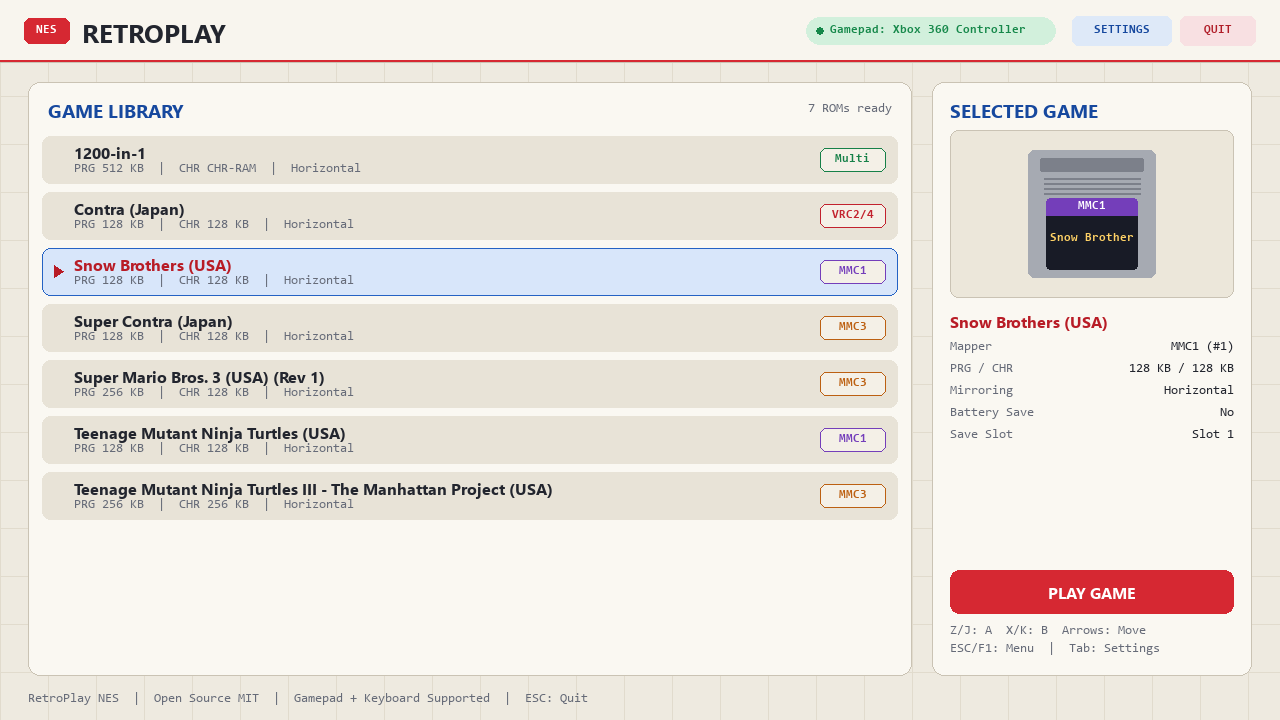
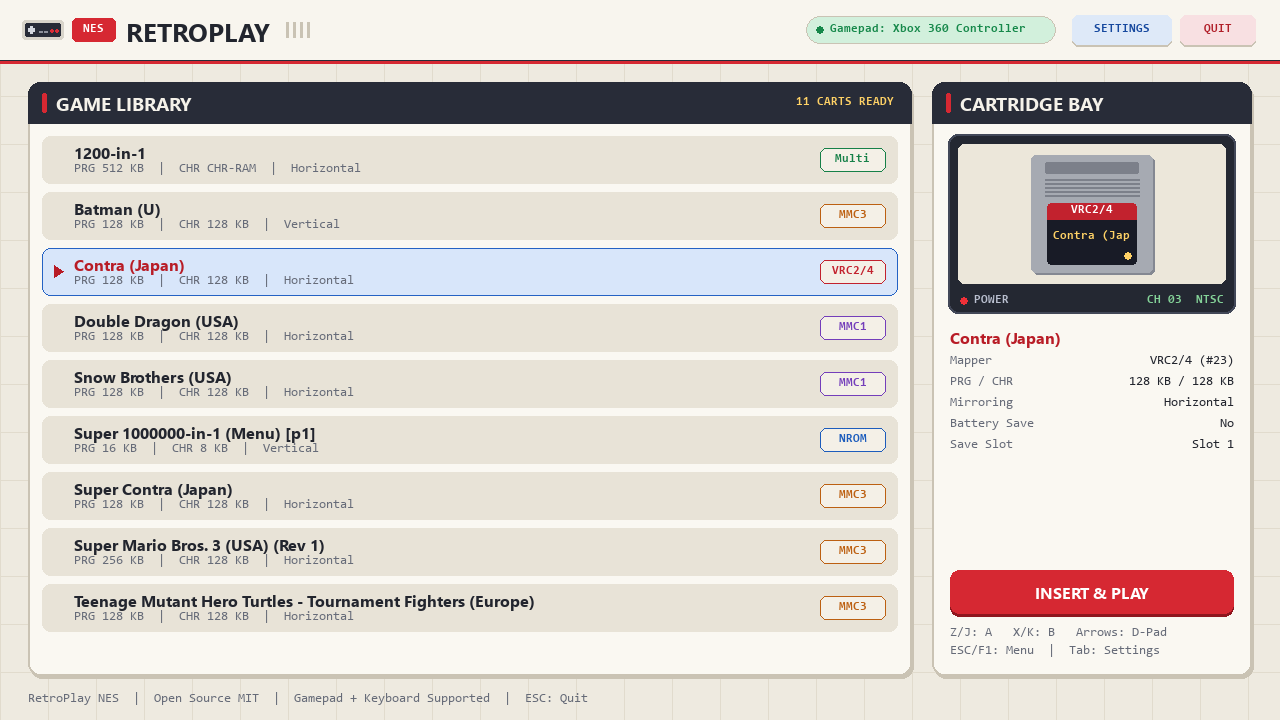
Add nostalgic 1985 NES console hardware styling to main UI

diff --git a/nes_core/ui.py b/nes_core/ui.py
@@ -515,31 +515,46 @@ class EmulatorUI:
         surf.blit(lbl, (right_x - lbl.get_width(), y + 2))
 
     def _draw_cartridge_art(self, surf, rect: pygame.Rect, display: str, info: dict):
-        """Draw a styled NES cartridge preview card when no game screenshot is cached yet."""
+        """Draw a styled 1985 NES 72-pin cartridge preview card when no screenshot is cached yet."""
         t = self._theme()
-        pygame.draw.rect(surf, t["art_frame"], rect, border_radius=8)
-        pygame.draw.rect(surf, t["border"], rect, 1, border_radius=8)
+        pygame.draw.rect(surf, t["art_frame"], rect, border_radius=6)
 
-        cw, ch = 128, 128
+        cw, ch = 122, 118
         cx = rect.x + (rect.w - cw) // 2
         cy = rect.y + (rect.h - ch) // 2
-        # Classic gray NES cartridge silhouette
-        pygame.draw.rect(surf, t["cart_shell"], (cx, cy, cw, ch), border_radius=6)
-        pygame.draw.rect(surf, t["cart_groove"], (cx + 12, cy + 8, cw - 24, 14), border_radius=2)
-        for g in range(4):
-            pygame.draw.line(surf, t["cart_groove"], (cx + 16, cy + 28 + g * 5), (cx + cw - 16, cy + 28 + g * 5), 2)
+        # Classic gray NES cartridge silhouette with 3D plastic bevel & top notch
+        pygame.draw.rect(surf, (132, 136, 146), (cx + 2, cy + 2, cw, ch), border_radius=5)
+        pygame.draw.rect(surf, t["cart_shell"], (cx, cy, cw, ch), border_radius=5)
+        pygame.draw.rect(surf, t["cart_groove"], (cx + 14, cy + 7, cw - 28, 12), border_radius=2)
+        for g in range(5):
+            pygame.draw.line(surf, t["cart_groove"], (cx + 14, cy + 24 + g * 4), (cx + cw - 14, cy + 24 + g * 4), 2)
 
-        # Colored game label sticker
+        # Colored game label sticker + gold NES seal dot
         accent = t["mapper_colors"].get(info.get("mapper_id", 0), t["accent"])
-        lbl_rect = pygame.Rect(cx + 18, cy + 48, cw - 36, 72)
+        lbl_rect = pygame.Rect(cx + 16, cy + 48, cw - 32, 62)
         pygame.draw.rect(surf, (24, 27, 38), lbl_rect, border_radius=4)
-        pygame.draw.rect(surf, accent, (lbl_rect.x, lbl_rect.y, lbl_rect.w, 18), border_top_left_radius=4, border_top_right_radius=4)
+        pygame.draw.rect(surf, accent, (lbl_rect.x, lbl_rect.y, lbl_rect.w, 17), border_top_left_radius=4, border_top_right_radius=4)
         m_txt = self.font_badge.render(info.get("mapper_short", "NES"), True, (255, 255, 255))
-        surf.blit(m_txt, (lbl_rect.x + (lbl_rect.w - m_txt.get_width()) // 2, lbl_rect.y + 2))
+        surf.blit(m_txt, (lbl_rect.x + (lbl_rect.w - m_txt.get_width()) // 2, lbl_rect.y + 1))
 
-        short_name = display[:12]
+        short_name = display[:11]
         t_surf = self.font_badge.render(short_name, True, self.GOLD)
-        surf.blit(t_surf, (lbl_rect.x + (lbl_rect.w - t_surf.get_width()) // 2, lbl_rect.y + 34))
+        surf.blit(t_surf, (lbl_rect.x + (lbl_rect.w - t_surf.get_width()) // 2, lbl_rect.y + 27))
+        pygame.draw.circle(surf, self.GOLD, (lbl_rect.right - 9, lbl_rect.bottom - 9), 4)
+
+    def _draw_nes_pad_icon(self, surf, x: int, y: int):
+        """Draw a miniature 1985 NES controller icon."""
+        pygame.draw.rect(surf, (216, 212, 202), (x, y, 42, 20), border_radius=3)
+        pygame.draw.rect(surf, (40, 44, 56), (x + 3, y + 3, 36, 14), border_radius=2)
+        # Cross D-pad
+        pygame.draw.rect(surf, (210, 214, 222), (x + 8, y + 6, 3, 8))
+        pygame.draw.rect(surf, (210, 214, 222), (x + 6, y + 8, 7, 4))
+        # Select / Start center pills
+        pygame.draw.rect(surf, (140, 144, 154), (x + 17, y + 11, 4, 2))
+        pygame.draw.rect(surf, (140, 144, 154), (x + 22, y + 11, 4, 2))
+        # Red B & A buttons
+        pygame.draw.circle(surf, (218, 44, 54), (x + 30, y + 11), 2)
+        pygame.draw.circle(surf, (218, 44, 54), (x + 35, y + 11), 2)
 
     def _draw_backdrop(self, screen: pygame.Surface):
         t = self._theme()
@@ -558,16 +573,25 @@ class EmulatorUI:
     def _draw_header(self, screen: pygame.Surface, gamepads=None):
         t = self._theme()
         w, _ = screen.get_size()
-        pygame.draw.rect(screen, t["header_bg"], (0, 0, w, 62))
-        pygame.draw.line(screen, t["red_nes"], (0, 60), (w, 60), 2)
-        pygame.draw.line(screen, t["border"], (0, 62), (w, 62), 1)
+        pygame.draw.rect(screen, t["header_bg"], (0, 0, w, 64))
+        # Classic NES two-tone console stripe (charcoal + crimson)
+        pygame.draw.line(screen, (40, 44, 56), (0, 60), (w, 60), 2)
+        pygame.draw.line(screen, t["red_nes"], (0, 62), (w, 62), 3)
 
-        pygame.draw.rect(screen, t["red_nes"], (24, 18, 46, 26), border_radius=6)
+        # Mini NES controller + NES badge + brand
+        self._draw_nes_pad_icon(screen, 22, 20)
+        pygame.draw.rect(screen, t["red_nes"], (72, 18, 44, 24), border_radius=5)
         nes_lbl = self.font_badge.render("NES", True, (255, 255, 255))
-        screen.blit(nes_lbl, (24 + (46 - nes_lbl.get_width()) // 2, 24))
+        screen.blit(nes_lbl, (72 + (44 - nes_lbl.get_width()) // 2, 23))
 
         brand = self.font_brand.render("RETROPLAY", True, t["text"])
-        screen.blit(brand, (82, 14))
+        screen.blit(brand, (126, 13))
+
+        # Subtle console cooling vent grooves
+        vx = 286
+        if w > 980:
+            for i in range(4):
+                pygame.draw.rect(screen, t["border"], (vx + i * 7, 22, 3, 16), border_radius=1)
 
         has_gp = bool(gamepads and gamepads.devices)
         gp_txt = f"Gamepad: {gamepads.devices[0]['name'][:22]}" if has_gp else "Keyboard Ready"
@@ -575,21 +599,24 @@ class EmulatorUI:
         pill_bg = t["green_bg"] if has_gp else t["card_inner"]
         pill_w = max(160, len(gp_txt) * 8 + 26)
         px = w - pill_w - 224
-        if px > 240:
-            pygame.draw.rect(screen, pill_bg, (px, 17, pill_w, 28), border_radius=14)
-            pygame.draw.circle(screen, gp_col, (px + 14, 31), 4)
-            screen.blit(self.font_badge.render(gp_txt, True, gp_col), (px + 24, 24))
+        if px > 320:
+            pygame.draw.rect(screen, pill_bg, (px, 16, pill_w, 28), border_radius=14)
+            pygame.draw.rect(screen, t["border"], (px, 16, pill_w, 28), 1, border_radius=14)
+            pygame.draw.circle(screen, gp_col, (px + 14, 30), 4)
+            screen.blit(self.font_badge.render(gp_txt, True, gp_col), (px + 24, 23))
 
         set_hover = (self._hover_zone == ("open_settings", None))
         quit_hover = (self._hover_zone == ("quit_app", None))
-        set_rect = pygame.Rect(w - 208, 16, 100, 30)
-        quit_rect = pygame.Rect(w - 100, 16, 76, 30)
+        set_rect = pygame.Rect(w - 208, 15, 100, 30)
+        quit_rect = pygame.Rect(w - 100, 15, 76, 30)
+        pygame.draw.rect(screen, t["border"], set_rect.move(0, 2), border_radius=6)
+        pygame.draw.rect(screen, t["border"], quit_rect.move(0, 2), border_radius=6)
         pygame.draw.rect(screen, t["set_btn_hover"] if set_hover else t["set_btn_bg"], set_rect, border_radius=6)
         pygame.draw.rect(screen, t["quit_btn_hover"] if quit_hover else t["quit_btn_bg"], quit_rect, border_radius=6)
         s_lbl = self.font_badge.render("SETTINGS", True, t["set_btn_fg"])
         q_lbl = self.font_badge.render("QUIT", True, t["quit_btn_fg"])
-        screen.blit(s_lbl, (set_rect.x + (100 - s_lbl.get_width()) // 2, 24))
-        screen.blit(q_lbl, (quit_rect.x + (76 - q_lbl.get_width()) // 2, 24))
+        screen.blit(s_lbl, (set_rect.x + (100 - s_lbl.get_width()) // 2, 23))
+        screen.blit(q_lbl, (quit_rect.x + (76 - q_lbl.get_width()) // 2, 23))
         self._click_zones.append((set_rect, "open_settings", None))
         self._click_zones.append((quit_rect, "quit_app", None))
 
@@ -708,15 +735,19 @@ class EmulatorUI:
         side_w = 320 if two_col else 0
         list_w = w - margin * 2 - (side_w + 20 if two_col else 0)
 
-        # Left Panel: ROM Library
+        # Left Panel: Console Game Library with 3D plastic bevel & dark faceplate bar
         list_panel = pygame.Rect(margin, top_y, list_w, content_h)
+        pygame.draw.rect(screen, t["border"], list_panel.move(2, 3), border_radius=12)
         pygame.draw.rect(screen, t["panel_bg"], list_panel, border_radius=12)
-        pygame.draw.rect(screen, t["border"], list_panel, 1, border_radius=12)
+        pygame.draw.rect(screen, t["border"], list_panel, 2, border_radius=12)
 
-        hdr_lbl = self.font_title.render("GAME LIBRARY", True, t["accent_hi"])
-        screen.blit(hdr_lbl, (margin + 20, top_y + 15))
-        cnt_lbl = self.font_small.render(f"{len(self.roms)} ROMs ready", True, t["muted"])
-        screen.blit(cnt_lbl, (margin + list_w - 20 - cnt_lbl.get_width(), top_y + 20))
+        # Dark charcoal console faceplate strip
+        pygame.draw.rect(screen, (40, 44, 56), (margin, top_y, list_w, 42), border_top_left_radius=12, border_top_right_radius=12)
+        pygame.draw.rect(screen, t["red_nes"], (margin + 14, top_y + 11, 5, 20), border_radius=2)
+        hdr_lbl = self.font_title.render("GAME LIBRARY", True, (245, 242, 234))
+        screen.blit(hdr_lbl, (margin + 28, top_y + 8))
+        cnt_lbl = self.font_badge.render(f"{len(self.roms)} CARTS READY", True, self.GOLD)
+        screen.blit(cnt_lbl, (margin + list_w - 18 - cnt_lbl.get_width(), top_y + 14))
 
         if not self.roms:
             msg = self.font_item.render("No .nes files found in ./roms/ — add .nes ROMs and relaunch.", True, t["sel_text"])
@@ -763,27 +794,41 @@ class EmulatorUI:
             self._click_zones.append((row_rect, "rom_row", idx))
             y += row_h
 
-        # Right Panel: Cover Preview, Specs & Quick Launch
+        # Right Panel: Recessed CRT TV / Cartridge Bay & Tactile Launch
         if two_col:
             sx = margin + list_w + 20
             side_rect = pygame.Rect(sx, top_y, side_w, content_h)
+            pygame.draw.rect(screen, t["border"], side_rect.move(2, 3), border_radius=12)
             pygame.draw.rect(screen, t["panel_bg"], side_rect, border_radius=12)
-            pygame.draw.rect(screen, t["border"], side_rect, 1, border_radius=12)
+            pygame.draw.rect(screen, t["border"], side_rect, 2, border_radius=12)
+
+            pygame.draw.rect(screen, (40, 44, 56), (sx, top_y, side_w, 42), border_top_left_radius=12, border_top_right_radius=12)
+            pygame.draw.rect(screen, t["red_nes"], (sx + 14, top_y + 11, 5, 20), border_radius=2)
+            screen.blit(self.font_title.render("CARTRIDGE BAY", True, (245, 242, 234)), (sx + 28, top_y + 8))
 
             display, _, path, info = self.roms[self.cursor]
-            screen.blit(self.font_title.render("SELECTED GAME", True, t["accent_hi"]), (sx + 18, top_y + 15))
 
-            # Cover preview (cached real game screenshot if played, else custom NES cartridge art)
-            art_rect = pygame.Rect(sx + 18, top_y + 48, side_w - 36, 168)
+            # Recessed CRT TV / Console Bezel around cover preview or NES Cartridge Art
+            bezel_rect = pygame.Rect(sx + 16, top_y + 52, side_w - 32, 180)
+            pygame.draw.rect(screen, (36, 40, 50), bezel_rect, border_radius=10)
+            pygame.draw.rect(screen, (66, 72, 88), bezel_rect, 2, border_radius=10)
+
+            art_rect = pygame.Rect(bezel_rect.x + 10, bezel_rect.y + 10, bezel_rect.w - 20, 140)
             thumb = self._get_thumb(path, info)
             if thumb is not None:
                 scaled_thumb = pygame.transform.smoothscale(thumb, (art_rect.w, art_rect.h))
                 screen.blit(scaled_thumb, art_rect.topleft)
-                pygame.draw.rect(screen, t["accent"], art_rect, 1, border_radius=8)
+                pygame.draw.rect(screen, (18, 20, 26), art_rect, 2, border_radius=6)
             else:
                 self._draw_cartridge_art(screen, art_rect, display, info)
 
-            title_y = art_rect.bottom + 12
+            # Iconic glowing red POWER LED + CH 03 CRT label inside bezel bottom
+            pygame.draw.circle(screen, (238, 48, 56), (bezel_rect.x + 16, bezel_rect.bottom - 13), 4)
+            screen.blit(self.font_badge.render("POWER", True, (186, 192, 208)), (bezel_rect.x + 26, bezel_rect.bottom - 20))
+            ch_lbl = self.font_badge.render("CH 03  NTSC", True, (132, 210, 152))
+            screen.blit(ch_lbl, (bezel_rect.right - ch_lbl.get_width() - 12, bezel_rect.bottom - 20))
+
+            title_y = bezel_rect.bottom + 12
             short_title = display if len(display) <= 28 else display[:26] + "..."
             screen.blit(self.font_bold.render(short_title, True, t["sel_text"]), (sx + 18, title_y))
 
@@ -794,24 +839,26 @@ class EmulatorUI:
                 ("Battery Save", "Yes" if info["battery"] else "No"),
                 ("Save Slot", f"Slot {self.cfg['emulation']['save_slot']}"),
             ]
-            sy = title_y + 30
+            sy = title_y + 28
             for k, v in specs:
                 if sy + 18 > top_y + content_h - 115:
                     break
                 screen.blit(self.font_small.render(k, True, t["muted"]), (sx + 18, sy))
                 vs = self.font_small.render(v, True, t["text"])
                 screen.blit(vs, (sx + side_w - 18 - vs.get_width(), sy))
-                sy += 22
+                sy += 21
 
             play_hover = (self._hover_zone == ("play_selected", None))
             play_rect = pygame.Rect(sx + 18, top_y + content_h - 106, side_w - 36, 44)
+            # 3D tactile NES START button shadow + face
+            pygame.draw.rect(screen, (142, 22, 30), play_rect.move(0, 3), border_radius=9)
             pygame.draw.rect(screen, t["red_hi"] if play_hover else t["red_nes"], play_rect, border_radius=9)
-            p_lbl = self.font_bold.render("PLAY GAME", True, (255, 255, 255))
+            p_lbl = self.font_bold.render("INSERT & PLAY", True, (255, 255, 255))
             screen.blit(p_lbl, (play_rect.x + (play_rect.w - p_lbl.get_width()) // 2, play_rect.y + 11))
             self._click_zones.append((play_rect, "play_selected", None))
 
-            ctrl_y = top_y + content_h - 52
-            screen.blit(self.font_small.render("Z/J: A  X/K: B  Arrows: Move", True, t["muted"]), (sx + 18, ctrl_y))
+            ctrl_y = top_y + content_h - 50
+            screen.blit(self.font_small.render("Z/J: A   X/K: B   Arrows: D-Pad", True, t["muted"]), (sx + 18, ctrl_y))
             screen.blit(self.font_small.render("ESC/F1: Menu  |  Tab: Settings", True, t["muted"]), (sx + 18, ctrl_y + 18))
 
         footer = self.font_small.render("RetroPlay NES  |  Open Source MIT  |  Gamepad + Keyboard Supported  |  ESC: Quit", True, t["muted"])
